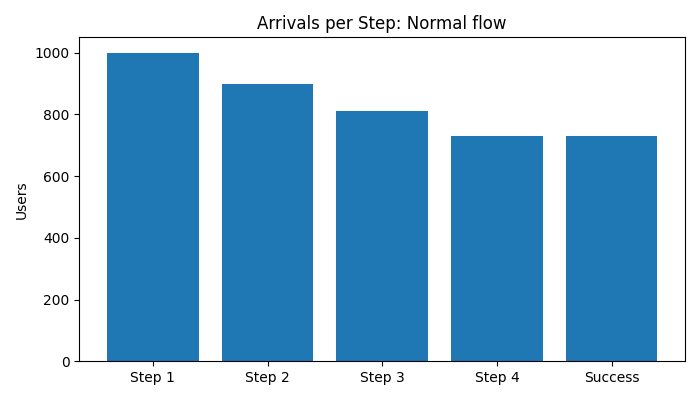
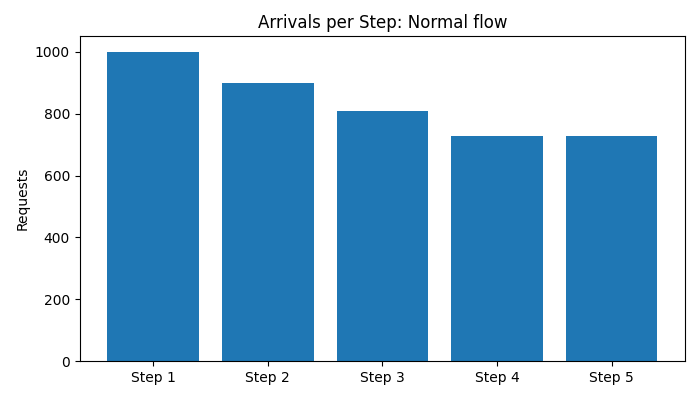
step 5 and end to end formula

diff --git a/src/metrics_demo.py b/src/metrics_demo.py
@@ -25,7 +25,7 @@ C2 = T1 * T2_drop * T3 * T4
 
 os.makedirs("images", exist_ok=True)
 
-labels = ["Step 1", "Step 2", "Step 3", "Step 4", "Success"]
+labels = ["Step 1", "Step 2", "Step 3", "Step 4", "Step 5"]
 normal = [A1, A2, A3, A4, A5]
 drop = [A1, A2_drop, A3_drop, A4_drop, A5_drop]
 
@@ -33,7 +33,7 @@ drop = [A1, A2_drop, A3_drop, A4_drop, A5_drop]
 plt.figure(figsize=(7, 4))
 plt.bar(labels, normal, color="#1f77b4")  # blue
 plt.title("Arrivals per Step: Normal flow")
-plt.ylabel("Users")
+plt.ylabel("Requests")
 plt.tight_layout()
 plt.savefig("images/plot1.png")
 plt.close()
@@ -42,7 +42,7 @@ plt.close()
 plt.figure(figsize=(7, 4))
 plt.bar(labels, drop, color="#7f7f7f")  # gray
 plt.title("Arrivals per Step: T2 drop flow")
-plt.ylabel("Users")
+plt.ylabel("Requests")
 plt.tight_layout()
 plt.savefig("images/plot2.png")
 plt.close()
@@ -100,7 +100,7 @@ for idx, _ in enumerate(windows, start=1):
 		# Before experiment: T2 also healthy 0.9-1.0
 		t2 = random.uniform(0.95, 1.0)
 	else:
-		# After experiment: T2 slightly degraded, between 0.7 and 1.0
+		# After experiment: T2 degraded, between 0.2 and 0.5
 		t2 = random.uniform(0.2, 0.5)
 
 	C_series.append(t1 * t2 * t3 * t4)

diff --git a/README.md b/README.md
@@ -31,9 +31,9 @@ We work with time windows (for example, 1, 5, or 15 minutes). For each window $t
 - **Arrival** $A_i(t)$: number of requests entering step $i$ in window $t$.
 - **Transition ratio** $T_i(t)$: fraction of requests that move from step $i$ to step $i+1$:
   $$T_i(t) = \frac{A_{i+1}(t)}{A_i(t)}.$$
-- **Terminal Success**: last step with a clear success condition (for example final HTTP 2xx).
-- **Conversion** $C(t)$: fraction of requests that started in step 1 and ended in Success:
-  $$C(t) = \frac{A_\text{success}(t)}{A_1(t)} = \prod_{i=1}^L T_i(t).$$
+- **Terminal Success**: last step with a clear success condition (for example final HTTP 2xx). We denote it as step $L+1$.
+- **Conversion** $C(t)$: fraction of requests that started in step 1 and ended in Success (step $L+1$):
+  $$C(t) = \frac{A_{L+1}(t)}{A_1(t)} = \prod_{i=1}^L T_i(t).$$
 
 Notes:
 - We count **requests**, not unique users; retries are part of the signal.
@@ -48,10 +48,15 @@ Example flow:
 > Step 1 → Step 2 → Step 3 → Step 4 → Success
 
 For a window $t$:
-- $A_i(t)$: arrivals into step $i$, for $i ∈ \{1,2,3,4\}$.
-- $A_\text{success}(t)$: requests that finish the flow successfully at the last step.
+- $A_i(t)$: arrivals into step $i$, for $i ∈ \{1,2,3,4,5\}$, where step 5 is the terminal success step.
 - $T_i(t) = A_{i+1}(t)/A_i(t)$ for $i ∈ \{1,2,3,4\}$.
-- End-to-end conversion: $C(t) = T_1(t)·T_2(t)·T_3(t)·T_4(t)$.
+- End-to-end conversion:
+  $$
+  C(t)
+  = \frac{A_5(t)}{A_1(t)}
+  = \frac{A_5(t)}{A_4(t)} \cdot \frac{A_4(t)}{A_3(t)} \cdot \frac{A_3(t)}{A_2(t)} \cdot \frac{A_2(t)}{A_1(t)}
+  = T_4(t)·T_3(t)·T_2(t)·T_1(t).
+  $$
 
 Interpretation:
 - Any drop in any $T_i(t)$ shows up as a drop in $C(t)$.
@@ -94,7 +99,7 @@ Below is what each plot is meant to show.
 ### 1. Arrivals per step – normal
 
 ![Arrivals per step – normal](images/plot1.png)
-- View of $A_1, A_2, A_3, A_4, A_\text{success}$ for the normal case.
+- View of $A_1, A_2, A_3, A_4, A_5$ for the normal case.
 
 ### 2. Arrivals per step – bad $T_2$
 
